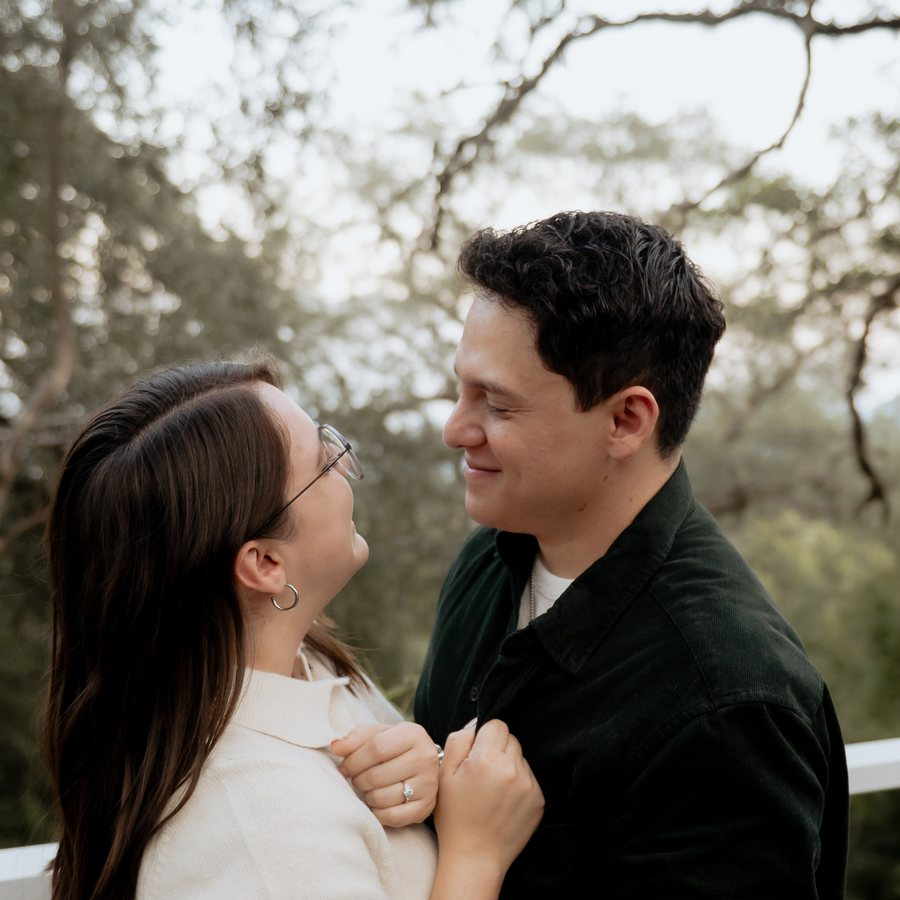
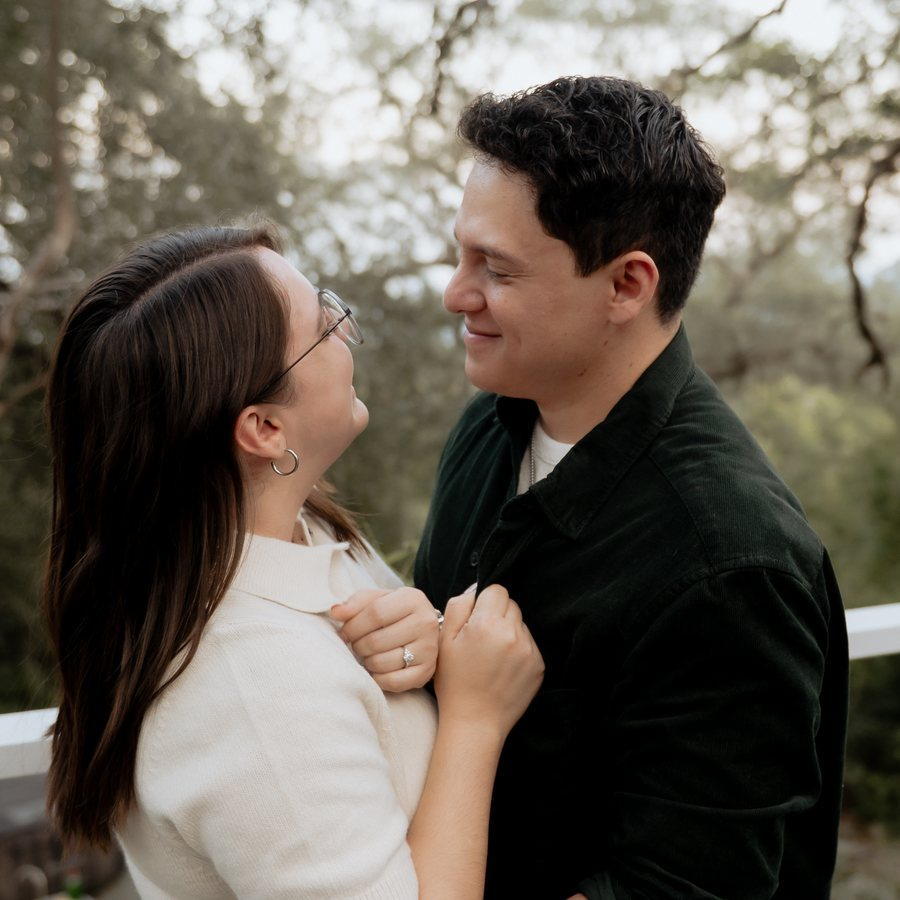
Sección de hospedaje y ajustes de fotos

diff --git a/css/lp-hero.css b/css/lp-hero.css
@@ -791,6 +791,27 @@ a.lp__nav-item:focus-visible .lp__nav-label {
     letter-spacing: 0.26em;
 }
 
+/* a short note under an event's name ("Con previa invitación"): the same font
+   as the venue address (Open Sans, upright), in sand */
+.wed-timeline__note {
+    display: block;
+    margin-top: 4px;
+    font-family: 'Open Sans', sans-serif;
+    font-size: 13px;
+    font-style: normal;
+    font-weight: 400;
+    line-height: 1.5;
+    letter-spacing: 0;
+    text-transform: none;
+    color: #8a7b5f;
+}
+
+@media (max-width: 575px) {
+    .wed-timeline__note {
+        font-size: 11px;
+    }
+}
+
 /* Phones: shorter ticks, icon stacked over the text */
 @media (max-width: 575px) {
     .wed-timeline {
@@ -2198,6 +2219,7 @@ button.btn-sand {
  * ------------------------------------------------------------------ */
 
 #countdown,
+#hotels,
 #dresscode,
 #gifts,
 #invitation,
@@ -2209,6 +2231,7 @@ button.btn-sand {
 
 /* the line, with a diamond at each end */
 #countdown::before,
+#hotels::before,
 #dresscode::before,
 #gifts::before,
 #invitation::before,
@@ -2235,6 +2258,7 @@ button.btn-sand {
    above it, above the section it opens) */
 @media (max-width: 575px) {
     #countdown,
+    #hotels,
     #dresscode,
     #gifts,
     #invitation {
@@ -2244,6 +2268,7 @@ button.btn-sand {
 
     #parents,
     #events,
+    #hotels,
     #dresscode,
     #gifts {
         padding-bottom: calc(var(--section-pad) + 15px);
@@ -2396,4 +2421,181 @@ button.btn-sand {
     box-shadow: 0 5px 14px rgba(120, 95, 60, 0.18);
     color: #4d4433;
     transform: translateY(-1px);
+}
+
+/* ------------------------------------------------------------------
+ * Hotels (#hotels, between the itinerary and the dress code): the SAFI
+ * hotels' wedding agreement, from the rate letter in source-images/hotels/
+ * (rates left out on purpose). Two cards like the gift cards, with the
+ * hotel's photo on top, then the agreement code set large in the
+ * names' serif, the reservations phones and the deadline.
+ * ------------------------------------------------------------------ */
+#hotels .hotels-intro {
+    max-width: 560px;
+    margin: 14px auto 0;
+    font-family: 'Cormorant Garamond', serif;
+    font-size: 21px;
+    font-style: italic;
+    line-height: 1.45;
+    color: #333;
+    text-wrap: balance;
+}
+
+.hotel-card {
+    display: flex;
+    flex-direction: column;
+    height: 100%;
+    overflow: hidden;
+    border: 1px solid rgba(214, 207, 189, 0.7);
+    border-radius: 14px;
+    background: rgba(255, 255, 255, 0.45);
+    box-shadow: 0 6px 18px rgba(62, 111, 163, 0.07), 0 1px 3px rgba(0, 0, 0, 0.05);
+    text-align: center;
+}
+
+.hotel-card__photo {
+    display: block;
+    width: 100%;
+    max-width: none;
+    height: 220px;
+    object-fit: cover;
+}
+
+.hotel-card__body {
+    display: flex;
+    flex-direction: column;
+    align-items: center;
+    flex: 1;
+    padding: 22px 22px 24px;
+}
+
+.hotel-card__tag {
+    margin-bottom: 4px;
+    font-family: 'Open Sans', sans-serif;
+    font-size: 10.5px;
+    font-weight: 600;
+    letter-spacing: 0.2em;
+    text-transform: uppercase;
+    color: #a39579;
+}
+
+.hotel-card__name {
+    margin: 0 0 8px;
+    font-family: 'Cormorant Garamond', serif;
+    font-size: 25px;
+    font-weight: 400;
+    line-height: 1.2;
+    color: #333;
+}
+
+.hotel-card__address {
+    margin: 0 0 16px;
+    font-size: 13px;
+    line-height: 1.5;
+    color: #777;
+}
+
+.hotel-card .gift-btn {
+    margin-top: auto;
+}
+
+.hotel-booking {
+    max-width: 520px;
+    margin: 36px auto 0;
+    text-align: center;
+}
+
+.hotel-booking p {
+    margin: 0;
+}
+
+.hotel-booking__label {
+    font-family: 'Open Sans', sans-serif;
+    font-size: 11px;
+    font-weight: 600;
+    letter-spacing: 0.22em;
+    text-transform: uppercase;
+    color: #a39579;
+}
+
+/* the code, large in the names' serif capitals */
+.hotel-booking__code {
+    padding-left: 0.18em; /* letter-spacing pad keeps it centered */
+    font-family: 'Cormorant Garamond', serif;
+    font-size: 52px;
+    font-weight: 400;
+    line-height: 1.15;
+    letter-spacing: 0.18em;
+    font-variant-numeric: lining-nums;
+    color: #555;
+}
+
+.hotel-booking__spell {
+    margin-bottom: 16px !important;
+    font-size: 12px;
+    letter-spacing: 0.08em;
+    color: #8a7b5f;
+}
+
+.hotel-booking__how {
+    font-family: 'Cormorant Garamond', serif;
+    font-size: 19px;
+    font-style: italic;
+    color: #333;
+}
+
+.hotel-booking__phones {
+    margin-top: 6px !important;
+    font-family: 'Cormorant Garamond', serif;
+    font-size: 22px;
+    font-variant-numeric: lining-nums;
+    letter-spacing: 0.06em;
+    color: #555;
+}
+
+.hotel-booking__phones a {
+    color: inherit;
+    text-decoration: none;
+    border-bottom: 1px solid rgba(163, 149, 121, 0.5);
+}
+
+.hotel-booking__phones span {
+    margin: 0 10px;
+    color: #a39579;
+}
+
+.hotel-booking__note {
+    margin-top: 12px !important;
+    font-size: 12px;
+    color: #777;
+}
+
+@media (max-width: 575px) {
+    #hotels .hotels-intro {
+        font-size: 19px;
+    }
+
+    .hotel-card__photo {
+        height: 190px;
+    }
+
+    .hotel-card__name {
+        font-size: 23px;
+    }
+
+    .hotel-booking {
+        margin-top: 28px;
+    }
+
+    .hotel-booking__code {
+        font-size: 44px;
+    }
+
+    .hotel-booking__how {
+        font-size: 17px;
+    }
+
+    .hotel-booking__phones {
+        font-size: 20px;
+    }
 }

diff --git a/index.html b/index.html
@@ -294,6 +294,7 @@
                                 <div class="wed-timeline__text">
                                     <span class="wed-timeline__time">5:30 PM</span>
                                     <span class="wed-timeline__name">Ceremonia civil</span>
+                                    <span class="wed-timeline__note">Con previa invitación</span>
 
                                     <!-- Venue: place, address and a Google Maps link -->
                                     <div class="wed-timeline__venue">
@@ -398,6 +399,76 @@
                                 </div>
                             </li>
                         </ol>
+                    </div>
+                </section>
+
+                <!-- Section Hotels: the SAFI hotels' agreement rate for the wedding (from the hotel's
+                     rate letter, source-images/hotels/; rates are deliberately left out) -->
+
+                <section id="hotels" class="section hotels">
+                    <div class="container">
+                        <div class="row">
+                            <div class="col-12 text-center heading">
+                                <h2>Hospedaje</h2>
+
+                                <span class="heading-sub">Para nuestros invitados</span>
+
+                                <p class="hotels-intro">Queremos que disfrutes la noche sin pensar en el regreso. Reservamos una tarifa especial en dos hoteles a unos pasos de la celebración.</p>
+                            </div>
+                        </div>
+
+                        <div class="row g-4 justify-content-center hotel-list">
+                            <div class="col-12 col-md-6 col-lg-5">
+                                <article class="hotel-card">
+                                    <img class="hotel-card__photo" src="images/hotel-safi-metropolitan.jpg" alt="Torres de Hotel SAFI Metropolitan en Valle Oriente" width="435" height="345" loading="lazy" decoding="async">
+
+                                    <div class="hotel-card__body">
+                                        <span class="hotel-card__tag">Donde celebraremos</span>
+                                        <h3 class="hotel-card__name">Hotel SAFI Metropolitan</h3>
+                                        <p class="hotel-card__address">Av. Lázaro Cárdenas 2400, Valle Oriente,<br>San Pedro Garza García, N.L.</p>
+
+                                        <a class="gift-btn" href="https://maps.app.goo.gl/Dd2LXDzYj6cPdhCb8" target="_blank" rel="noopener">
+                                            <span class="gift-btn__label">Ver ubicación</span>
+                                            <i class="fa-solid fa-arrow-right" aria-hidden="true"></i>
+                                        </a>
+                                    </div>
+                                </article>
+                            </div>
+
+                            <div class="col-12 col-md-6 col-lg-5">
+                                <article class="hotel-card">
+                                    <img class="hotel-card__photo" src="images/hotel-safi-valle.jpg" alt="Fachada de Hotel SAFI Valle" width="424" height="348" loading="lazy" decoding="async">
+
+                                    <div class="hotel-card__body">
+                                        <span class="hotel-card__tag">Conectado con el Metropolitan</span>
+                                        <h3 class="hotel-card__name">Hotel SAFI Valle</h3>
+                                        <p class="hotel-card__address">Av. Diego Rivera 555, Valle Oriente,<br>San Pedro Garza García, N.L.</p>
+
+                                        <a class="gift-btn" href="https://www.google.com/maps/search/?api=1&amp;query=Hotel+SAFI+Valle+Av.+Diego+Rivera+555+San+Pedro+Garza+Garcia" target="_blank" rel="noopener">
+                                            <span class="gift-btn__label">Ver ubicación</span>
+                                            <i class="fa-solid fa-arrow-right" aria-hidden="true"></i>
+                                        </a>
+                                    </div>
+                                </article>
+                            </div>
+                        </div>
+
+                        <!-- How to book: the agreement code and the reservations phones -->
+                        <div class="hotel-booking">
+                            <p class="hotel-booking__label">Clave de convenio</p>
+                            <p class="hotel-booking__code" aria-label="Clave de convenio: cero, E, E, J">0EEJ</p>
+                            <p class="hotel-booking__spell">cero · E · E · J</p>
+
+                            <p class="hotel-booking__how">Menciónala al reservar en línea o con la Central de Reservaciones:</p>
+
+                            <p class="hotel-booking__phones">
+                                <a href="tel:+528181007080">81 8100 7080</a>
+                                <span aria-hidden="true">·</span>
+                                <a href="tel:+528183997000">81 8399 7000</a>
+                            </p>
+
+                            <p class="hotel-booking__note">Tarifa disponible hasta el 3 de febrero de 2027</p>
+                        </div>
                     </div>
                 </section>
 
